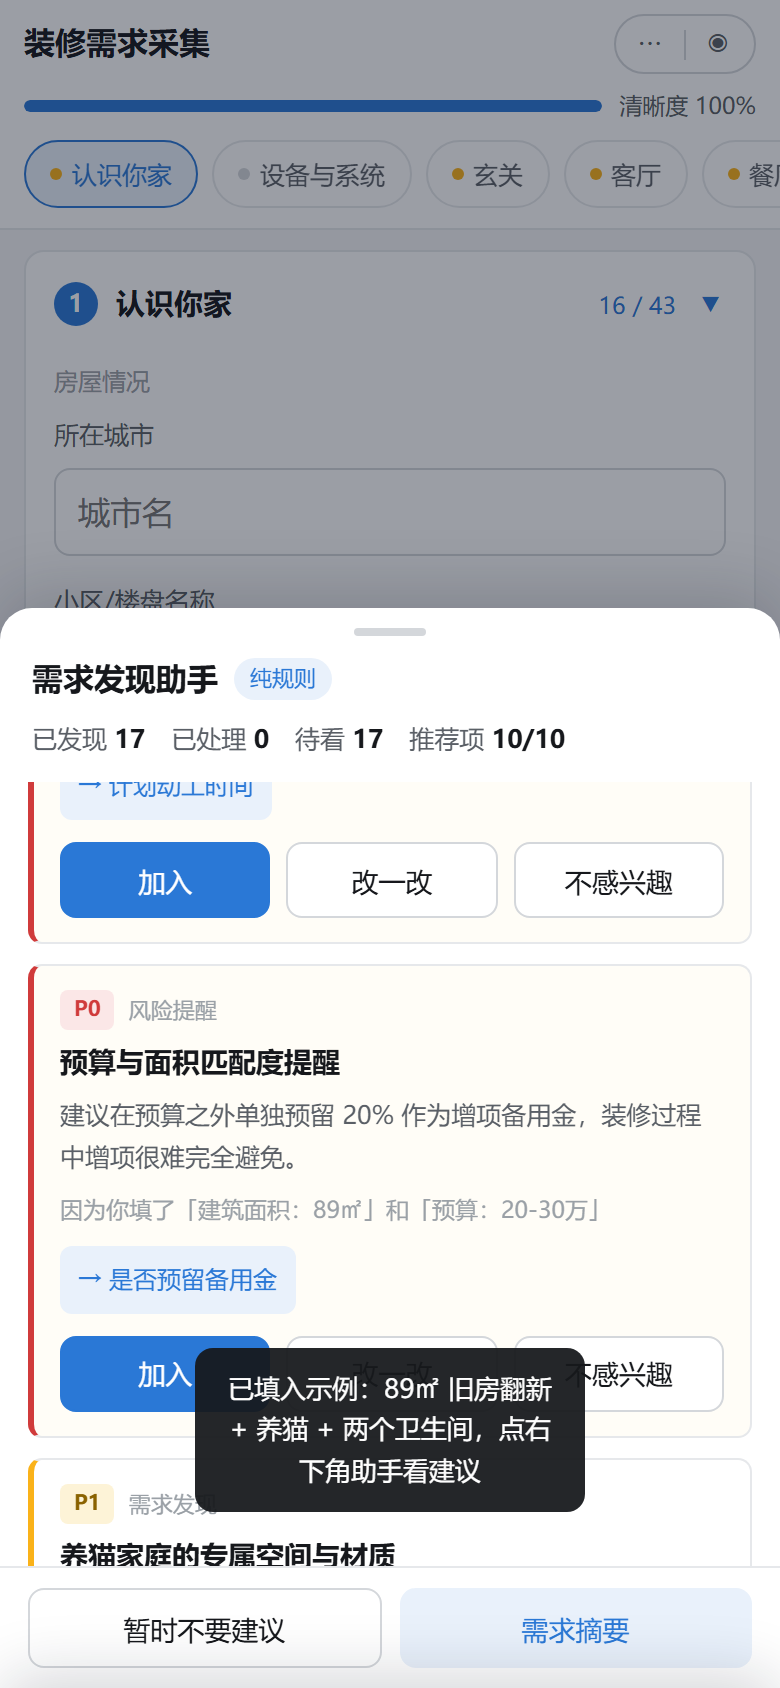
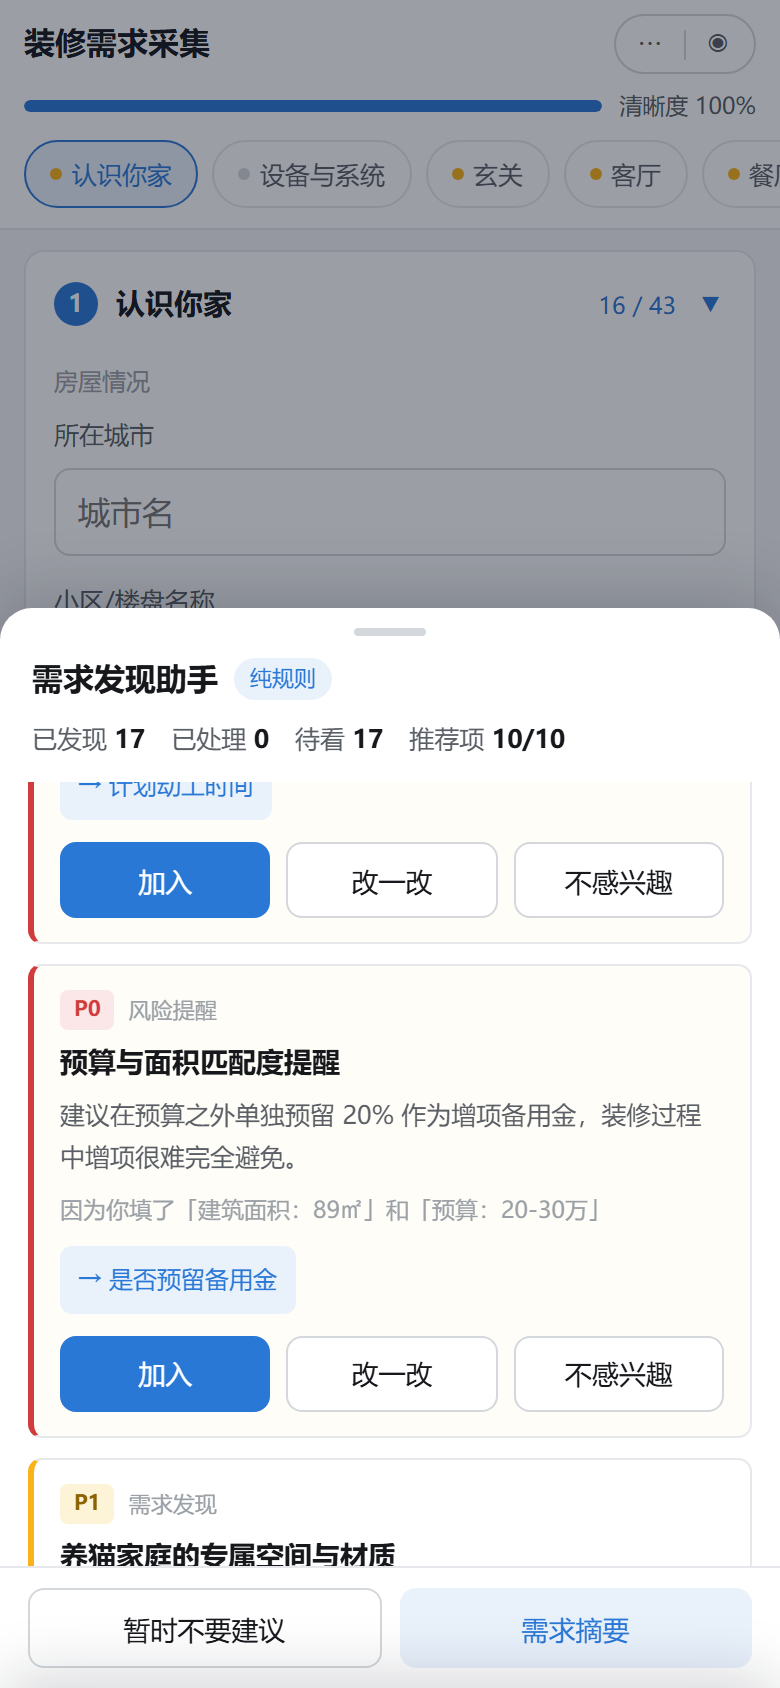
feat: 小程序端助手入口由悬浮球改为底部常驻发现横条

Changed region(s): [[0.2462, 0.8009, 0.7692, 0.8934]]

diff --git a/mobile/装修需求发现助手_小程序端Demo_V0.1.html b/mobile/装修需求发现助手_小程序端Demo_V0.1.html
@@ -18,7 +18,7 @@
   --shadow-lg:0 12px 32px rgba(16,24,40,.16);
   --radius:10px; --radius-sm:7px;
   --font:system-ui,-apple-system,"Segoe UI","Microsoft YaHei",sans-serif;
-  --app-w:430px; --navbar-h:44px; --actionbar-h:62px;
+  --app-w:430px; --navbar-h:44px; --bottom-h:108px;
   --safe-b:env(safe-area-inset-bottom,0px);
 }
 *{box-sizing:border-box;-webkit-tap-highlight-color:transparent}
@@ -29,7 +29,7 @@ button{font-family:inherit;cursor:pointer}
 
 /* 手机框：宽屏时收成手机宽度 */
 .app{position:relative;width:100%;max-width:var(--app-w);min-height:100vh;background:var(--bg-page);
-  padding-bottom:calc(var(--actionbar-h) + var(--safe-b) + 14px)}
+  padding-bottom:calc(var(--bottom-h) + var(--safe-b) + 14px)}
 @media (min-width:520px){
   .app{box-shadow:0 0 0 1px rgba(16,24,40,.06),0 18px 48px rgba(16,24,40,.14)}
 }
@@ -121,24 +121,19 @@ button{font-family:inherit;cursor:pointer}
 .tool-card .btn{width:100%}
 .tool-note{font-size:11.5px;color:var(--text-3);margin-top:9px;line-height:1.6}
 
-/* 悬浮球 */
-.fab{position:fixed;right:max(16px,calc(50% - var(--app-w) / 2 + 16px));
-  bottom:calc(var(--actionbar-h) + var(--safe-b) + 16px);z-index:45;
-  width:56px;height:56px;border-radius:50%;border:0;background:var(--primary);color:#fff;
-  box-shadow:0 8px 22px rgba(42,120,214,.42);display:grid;place-items:center;font-size:20px;
-  transition:transform .16s,opacity .18s}
-.fab:active{transform:scale(.93)}
-.fab.hide{opacity:0;pointer-events:none;transform:scale(.8)}
-.fab.quiet{background:var(--text-3);box-shadow:0 8px 22px rgba(16,24,40,.24)}
-.fab .badge{position:absolute;top:-4px;right:-4px;min-width:21px;height:21px;padding:0 5px;border-radius:99px;
-  background:var(--danger);color:#fff;font-size:11px;font-weight:600;display:grid;place-items:center;
-  border:2px solid var(--bg-page)}
-
-/* 底部操作栏 */
-.actionbar{position:fixed;left:50%;transform:translateX(-50%);width:100%;max-width:var(--app-w);
-  bottom:0;z-index:35;display:flex;align-items:center;gap:10px;
-  padding:9px 12px calc(9px + var(--safe-b));background:rgba(255,255,255,.96);
-  backdrop-filter:blur(8px);border-top:1px solid var(--border)}
+/* 底部常驻：发现横条 + 操作栏 */
+.bottom{position:fixed;left:50%;transform:translateX(-50%);width:100%;max-width:var(--app-w);
+  bottom:0;z-index:35;background:rgba(255,255,255,.97);backdrop-filter:blur(8px);
+  border-top:1px solid var(--border);padding-bottom:var(--safe-b)}
+.find-bar{display:flex;align-items:center;gap:9px;width:100%;min-height:46px;padding:0 14px;
+  border:0;border-bottom:1px solid var(--border);background:var(--primary-weak);
+  color:var(--primary);font-size:13.5px;text-align:left;transition:background .2s}
+.find-bar b{font-weight:600}
+.find-bar .find-icon{font-size:13px;flex:none}
+.find-bar .find-arrow{margin-left:auto;font-size:18px;line-height:1;opacity:.65}
+.find-bar.clear{background:#f3faf4;color:#2f7a2f}
+.find-bar.quiet{background:var(--bg-hover);color:var(--text-2)}
+.actionbar{display:flex;align-items:center;gap:10px;padding:9px 12px}
 .save-hint{font-size:11.5px;color:var(--text-3);flex:none;display:flex;align-items:center;gap:5px}
 .save-hint i{width:6px;height:6px;border-radius:50%;background:var(--success);display:block}
 .actionbar .btn-primary{margin-left:auto;flex:1;max-width:200px;min-height:42px;font-size:15px;border-radius:10px}
@@ -217,7 +212,7 @@ button{font-family:inherit;cursor:pointer}
   background:#fff;border-top:1px solid var(--border)}
 .page-foot .btn{flex:1;min-height:44px;font-size:15px;border-radius:10px}
 
-.toast{position:fixed;left:50%;bottom:calc(var(--actionbar-h) + var(--safe-b) + 26px);
+  bottom:calc(var(--bottom-h) + var(--safe-b) + 22px);
   transform:translateX(-50%) translateY(10px);background:rgba(22,24,28,.94);color:#fff;
   max-width:calc(var(--app-w) - 48px);text-align:center;
   padding:10px 15px;border-radius:9px;font-size:13px;line-height:1.6;opacity:0;pointer-events:none;
@@ -242,13 +237,16 @@ button{font-family:inherit;cursor:pointer}
 
   <main class="form-col" id="form-col"></main>
 
-  <button class="fab" id="fab" data-act="open-sheet" aria-label="需求发现助手">
-    <span>✦</span><span class="badge" id="fab-badge" style="display:none">0</span>
-  </button>
-
-  <div class="actionbar">
-    <span class="save-hint"><i></i>已自动保存</span>
-    <button class="btn btn-primary" id="btn-submit">提交设计师</button>
+  <div class="bottom">
+    <button class="find-bar" id="find-bar" data-act="open-sheet">
+      <span class="find-icon">✦</span>
+      <span id="find-text">还没有新的发现</span>
+      <span class="find-arrow">›</span>
+    </button>
+    <div class="actionbar">
+      <span class="save-hint"><i></i>已自动保存</span>
+      <button class="btn btn-primary" id="btn-submit">提交设计师</button>
+    </div>
   </div>
 
   <div class="mask" id="mask"></div>
@@ -648,7 +646,7 @@ function renderNav() {
   if (on) nav.scrollLeft = Math.max(0, on.offsetLeft - 60);
 }
 
-/* ============ 渲染：进度与悬浮球 ============ */
+/* ============ 渲染：进度与底部横条 ============ */
 function renderProgress() {
   const { total, done } = recStats();
   const pct = total ? Math.round(done / total * 100) : 0;
@@ -656,12 +654,14 @@ function renderProgress() {
   $('#prog-num').textContent = '清晰度 ' + pct + '%';
   $('#c-rec').textContent = done + '/' + total;
 }
-function renderFab() {
-  const n = QUIET ? 0 : openSuggestions().length;
-  const badge = $('#fab-badge');
-  badge.textContent = n > 99 ? '99+' : String(n);
-  badge.style.display = n > 0 ? 'grid' : 'none';
-  $('#fab').classList.toggle('quiet', QUIET);
+function renderFindBar() {
+  const bar = $('#find-bar');
+  const n = openSuggestions().length;
+  bar.classList.toggle('quiet', QUIET);
+  bar.classList.toggle('clear', !QUIET && n === 0);
+  if (QUIET) $('#find-text').textContent = '建议已暂停，点这里查看';
+  else if (n > 0) $('#find-text').innerHTML = '还有 <b>' + n + '</b> 条发现值得看一眼';
+  else $('#find-text').textContent = '发现都处理完了，继续填写会自动跟进';
 }
 
 /* ============ 渲染：发现弹层 ============ */
@@ -724,7 +724,7 @@ function renderSheet() {
   list.innerHTML = html;
 }
 
-function renderAll() { renderForm(); renderNav(); renderProgress(); renderFab(); renderSheet(); save(); }
+function renderAll() { renderForm(); renderNav(); renderProgress(); renderFindBar(); renderSheet(); save(); }
 
 /* ============ 动作 ============ */
 function setValue(key, val) {
@@ -857,7 +857,6 @@ function summaryText() {
 function openSheet() {
   $('#sheet').classList.add('on');
   $('#mask').classList.add('on');
-  $('#fab').classList.add('hide');
   $('#sheet').classList.remove('full');
 }
 function openConfirm(title, body, okText) {
@@ -866,7 +865,6 @@ function openConfirm(title, body, okText) {
   $('#cf-ok').textContent = okText || '知道了';
   $('#confirm').classList.add('on');
   $('#mask').classList.add('on');
-  $('#fab').classList.add('hide');
 }
 function openSummary() {
   $('#sum-text').textContent = summaryText();
@@ -876,7 +874,6 @@ function closeSheets() {
   $('#sheet').classList.remove('on', 'full');
   $('#confirm').classList.remove('on');
   $('#mask').classList.remove('on');
-  $('#fab').classList.remove('hide');
 }
 let toastTimer = null;
 function toast(msg) {
@@ -938,7 +935,7 @@ function load() {
 let refreshTimer = null;
 function debouncedRefresh() {
   clearTimeout(refreshTimer);
-  refreshTimer = setTimeout(() => { renderProgress(); renderFab(); renderSheet(); renderNav(); save(); }, 500);
+  refreshTimer = setTimeout(() => { renderProgress(); renderFindBar(); renderSheet(); renderNav(); save(); }, 500);
 }
 
 document.addEventListener('click', e => {
@@ -1046,7 +1043,7 @@ $('#btn-quiet').onclick = () => {
   QUIET = !QUIET;
   $('#btn-quiet').textContent = QUIET ? '恢复建议' : '暂时不要建议';
   toast(QUIET ? '已进入静默模式' : '已恢复建议');
-  renderFab(); renderSheet(); save();
+  renderFindBar(); renderSheet(); save();
 };
 
 /* 抽屉拖拽：下滑关闭，上滑全屏 */

diff --git a/tools/_mobile_template.html b/tools/_mobile_template.html
@@ -18,7 +18,7 @@
   --shadow-lg:0 12px 32px rgba(16,24,40,.16);
   --radius:10px; --radius-sm:7px;
   --font:system-ui,-apple-system,"Segoe UI","Microsoft YaHei",sans-serif;
-  --app-w:430px; --navbar-h:44px; --actionbar-h:62px;
+  --app-w:430px; --navbar-h:44px; --bottom-h:108px;
   --safe-b:env(safe-area-inset-bottom,0px);
 }
 *{box-sizing:border-box;-webkit-tap-highlight-color:transparent}
@@ -29,7 +29,7 @@ button{font-family:inherit;cursor:pointer}
 
 /* 手机框：宽屏时收成手机宽度 */
 .app{position:relative;width:100%;max-width:var(--app-w);min-height:100vh;background:var(--bg-page);
-  padding-bottom:calc(var(--actionbar-h) + var(--safe-b) + 14px)}
+  padding-bottom:calc(var(--bottom-h) + var(--safe-b) + 14px)}
 @media (min-width:520px){
   .app{box-shadow:0 0 0 1px rgba(16,24,40,.06),0 18px 48px rgba(16,24,40,.14)}
 }
@@ -121,24 +121,19 @@ button{font-family:inherit;cursor:pointer}
 .tool-card .btn{width:100%}
 .tool-note{font-size:11.5px;color:var(--text-3);margin-top:9px;line-height:1.6}
 
-/* 悬浮球 */
-.fab{position:fixed;right:max(16px,calc(50% - var(--app-w) / 2 + 16px));
-  bottom:calc(var(--actionbar-h) + var(--safe-b) + 16px);z-index:45;
-  width:56px;height:56px;border-radius:50%;border:0;background:var(--primary);color:#fff;
-  box-shadow:0 8px 22px rgba(42,120,214,.42);display:grid;place-items:center;font-size:20px;
-  transition:transform .16s,opacity .18s}
-.fab:active{transform:scale(.93)}
-.fab.hide{opacity:0;pointer-events:none;transform:scale(.8)}
-.fab.quiet{background:var(--text-3);box-shadow:0 8px 22px rgba(16,24,40,.24)}
-.fab .badge{position:absolute;top:-4px;right:-4px;min-width:21px;height:21px;padding:0 5px;border-radius:99px;
-  background:var(--danger);color:#fff;font-size:11px;font-weight:600;display:grid;place-items:center;
-  border:2px solid var(--bg-page)}
-
-/* 底部操作栏 */
-.actionbar{position:fixed;left:50%;transform:translateX(-50%);width:100%;max-width:var(--app-w);
-  bottom:0;z-index:35;display:flex;align-items:center;gap:10px;
-  padding:9px 12px calc(9px + var(--safe-b));background:rgba(255,255,255,.96);
-  backdrop-filter:blur(8px);border-top:1px solid var(--border)}
+/* 底部常驻：发现横条 + 操作栏 */
+.bottom{position:fixed;left:50%;transform:translateX(-50%);width:100%;max-width:var(--app-w);
+  bottom:0;z-index:35;background:rgba(255,255,255,.97);backdrop-filter:blur(8px);
+  border-top:1px solid var(--border);padding-bottom:var(--safe-b)}
+.find-bar{display:flex;align-items:center;gap:9px;width:100%;min-height:46px;padding:0 14px;
+  border:0;border-bottom:1px solid var(--border);background:var(--primary-weak);
+  color:var(--primary);font-size:13.5px;text-align:left;transition:background .2s}
+.find-bar b{font-weight:600}
+.find-bar .find-icon{font-size:13px;flex:none}
+.find-bar .find-arrow{margin-left:auto;font-size:18px;line-height:1;opacity:.65}
+.find-bar.clear{background:#f3faf4;color:#2f7a2f}
+.find-bar.quiet{background:var(--bg-hover);color:var(--text-2)}
+.actionbar{display:flex;align-items:center;gap:10px;padding:9px 12px}
 .save-hint{font-size:11.5px;color:var(--text-3);flex:none;display:flex;align-items:center;gap:5px}
 .save-hint i{width:6px;height:6px;border-radius:50%;background:var(--success);display:block}
 .actionbar .btn-primary{margin-left:auto;flex:1;max-width:200px;min-height:42px;font-size:15px;border-radius:10px}
@@ -217,7 +212,7 @@ button{font-family:inherit;cursor:pointer}
   background:#fff;border-top:1px solid var(--border)}
 .page-foot .btn{flex:1;min-height:44px;font-size:15px;border-radius:10px}
 
-.toast{position:fixed;left:50%;bottom:calc(var(--actionbar-h) + var(--safe-b) + 26px);
+  bottom:calc(var(--bottom-h) + var(--safe-b) + 22px);
   transform:translateX(-50%) translateY(10px);background:rgba(22,24,28,.94);color:#fff;
   max-width:calc(var(--app-w) - 48px);text-align:center;
   padding:10px 15px;border-radius:9px;font-size:13px;line-height:1.6;opacity:0;pointer-events:none;
@@ -242,13 +237,16 @@ button{font-family:inherit;cursor:pointer}
 
   <main class="form-col" id="form-col"></main>
 
-  <button class="fab" id="fab" data-act="open-sheet" aria-label="需求发现助手">
-    <span>✦</span><span class="badge" id="fab-badge" style="display:none">0</span>
-  </button>
-
-  <div class="actionbar">
-    <span class="save-hint"><i></i>已自动保存</span>
-    <button class="btn btn-primary" id="btn-submit">提交设计师</button>
+  <div class="bottom">
+    <button class="find-bar" id="find-bar" data-act="open-sheet">
+      <span class="find-icon">✦</span>
+      <span id="find-text">还没有新的发现</span>
+      <span class="find-arrow">›</span>
+    </button>
+    <div class="actionbar">
+      <span class="save-hint"><i></i>已自动保存</span>
+      <button class="btn btn-primary" id="btn-submit">提交设计师</button>
+    </div>
   </div>
 
   <div class="mask" id="mask"></div>
@@ -648,7 +646,7 @@ function renderNav() {
   if (on) nav.scrollLeft = Math.max(0, on.offsetLeft - 60);
 }
 
-/* ============ 渲染：进度与悬浮球 ============ */
+/* ============ 渲染：进度与底部横条 ============ */
 function renderProgress() {
   const { total, done } = recStats();
   const pct = total ? Math.round(done / total * 100) : 0;
@@ -656,12 +654,14 @@ function renderProgress() {
   $('#prog-num').textContent = '清晰度 ' + pct + '%';
   $('#c-rec').textContent = done + '/' + total;
 }
-function renderFab() {
-  const n = QUIET ? 0 : openSuggestions().length;
-  const badge = $('#fab-badge');
-  badge.textContent = n > 99 ? '99+' : String(n);
-  badge.style.display = n > 0 ? 'grid' : 'none';
-  $('#fab').classList.toggle('quiet', QUIET);
+function renderFindBar() {
+  const bar = $('#find-bar');
+  const n = openSuggestions().length;
+  bar.classList.toggle('quiet', QUIET);
+  bar.classList.toggle('clear', !QUIET && n === 0);
+  if (QUIET) $('#find-text').textContent = '建议已暂停，点这里查看';
+  else if (n > 0) $('#find-text').innerHTML = '还有 <b>' + n + '</b> 条发现值得看一眼';
+  else $('#find-text').textContent = '发现都处理完了，继续填写会自动跟进';
 }
 
 /* ============ 渲染：发现弹层 ============ */
@@ -724,7 +724,7 @@ function renderSheet() {
   list.innerHTML = html;
 }
 
-function renderAll() { renderForm(); renderNav(); renderProgress(); renderFab(); renderSheet(); save(); }
+function renderAll() { renderForm(); renderNav(); renderProgress(); renderFindBar(); renderSheet(); save(); }
 
 /* ============ 动作 ============ */
 function setValue(key, val) {
@@ -857,7 +857,6 @@ function summaryText() {
 function openSheet() {
   $('#sheet').classList.add('on');
   $('#mask').classList.add('on');
-  $('#fab').classList.add('hide');
   $('#sheet').classList.remove('full');
 }
 function openConfirm(title, body, okText) {
@@ -866,7 +865,6 @@ function openConfirm(title, body, okText) {
   $('#cf-ok').textContent = okText || '知道了';
   $('#confirm').classList.add('on');
   $('#mask').classList.add('on');
-  $('#fab').classList.add('hide');
 }
 function openSummary() {
   $('#sum-text').textContent = summaryText();
@@ -876,7 +874,6 @@ function closeSheets() {
   $('#sheet').classList.remove('on', 'full');
   $('#confirm').classList.remove('on');
   $('#mask').classList.remove('on');
-  $('#fab').classList.remove('hide');
 }
 let toastTimer = null;
 function toast(msg) {
@@ -938,7 +935,7 @@ function load() {
 let refreshTimer = null;
 function debouncedRefresh() {
   clearTimeout(refreshTimer);
-  refreshTimer = setTimeout(() => { renderProgress(); renderFab(); renderSheet(); renderNav(); save(); }, 500);
+  refreshTimer = setTimeout(() => { renderProgress(); renderFindBar(); renderSheet(); renderNav(); save(); }, 500);
 }
 
 document.addEventListener('click', e => {
@@ -1046,7 +1043,7 @@ $('#btn-quiet').onclick = () => {
   QUIET = !QUIET;
   $('#btn-quiet').textContent = QUIET ? '恢复建议' : '暂时不要建议';
   toast(QUIET ? '已进入静默模式' : '已恢复建议');
-  renderFab(); renderSheet(); save();
+  renderFindBar(); renderSheet(); save();
 };
 
 /* 抽屉拖拽：下滑关闭，上滑全屏 */

diff --git a/mobile/README.md b/mobile/README.md
@@ -23,7 +23,7 @@
 | 顶部进度 | 需求清晰度进度条（推荐项完成比例） |
 | 顶部分区导航 | 13 个大类横向滑动，带完成状态点，点击跳转并展开 |
 | 表单主体 | 大类手风琴，一次只展开一个；折叠时显示已填数量 |
-| 右下悬浮球 | 需求发现助手入口，角标显示待看条数 |
+| 底部发现横条 | 需求发现助手入口，常驻显示「还有 N 条发现值得看一眼」 |
 | 底部操作栏 | 自动保存状态 + 提交设计师，适配安全区 |
 | 底部弹层 | 发现列表，可下滑关闭、上滑全屏 |
 | 整页摘要 | 需求摘要用整页展示，方便阅读和复制 |
@@ -32,7 +32,7 @@
 
 - **手风琴代替长列表**：191 个字段一屏铺开在手机上无法导航，改成一次只展开一个大类。
 - **按需渲染**：折叠的大类不生成 DOM，只渲染展开的那一个，避免长表单卡顿，也贴合小程序 `setData` 要少传数据的约束。
-- **侧边栏变悬浮球**：PC 上常驻的 360px 侧栏在手机上放不下，改成右下悬浮球 + 底部半屏弹层，填表时视线不被干扰。
+- **侧边栏变底部横条**：PC 上常驻的 360px 侧栏在手机上放不下，改成底部常驻的发现横条 + 半屏弹层，随时看得到待办，又不遮挡表单。
 - **摘要整页展示**：手机上小弹窗读长文本体验差，改成整页滑出，底部常驻复制。
 - **抽屉手势**：发现弹层支持下滑关闭、上滑到全屏，遵循手机的下拉手势习惯。
 - **触控尺寸**：可点击控件高度均不小于 32px，大类头部 52px，底部主按钮 42px。
@@ -61,8 +61,9 @@ node tests/mobile.smoke.mjs
 分区导航 → 空间实例增删与房型联动 → 示例数据与发现列表 → 定位跳转 → 采纳 / 改一改 / 撤销 →
 连续忽略进静默 → 恢复 → 需求摘要 → 提交前检查 → 删除实例 → 重置，并回归模板文件不出现空白页与 NaN。
 
-其中布局指标包含：无横向溢出、悬浮球不遮挡底部操作栏、可点击控件高度、折叠头部高度一致、
-滚到底部时内容不被底部栏遮挡、弹层打开时悬浮球隐藏。截图输出在 `mobile/screenshots/`。
+其中布局指标包含：无横向溢出、发现横条与操作栏不重叠、底部常驻区贴住屏幕底部、发现横条触控高度、
+可点击控件高度、折叠头部高度一致、滚到底部时内容不被底部栏遮挡、弹层打开时横条被遮挡不会误触。
+截图输出在 `mobile/screenshots/`。
 
 如果本机的 Playwright 自带 Chromium 无法启动（缺少运行库时会报 side-by-side 配置错误），
 测试会自动回落到系统已安装的 Chrome 或 Edge；也可以手动指定：
